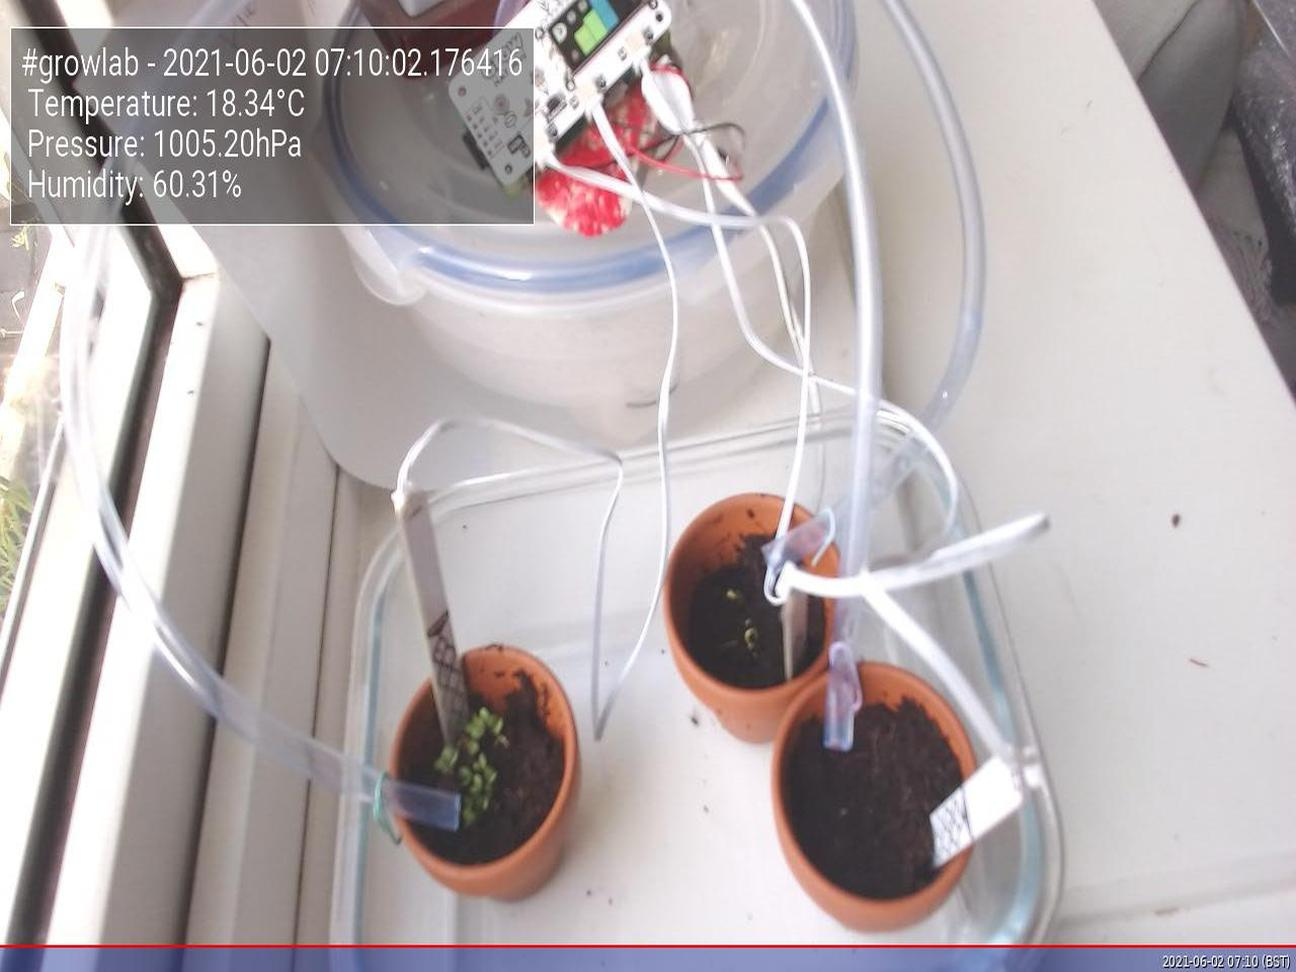
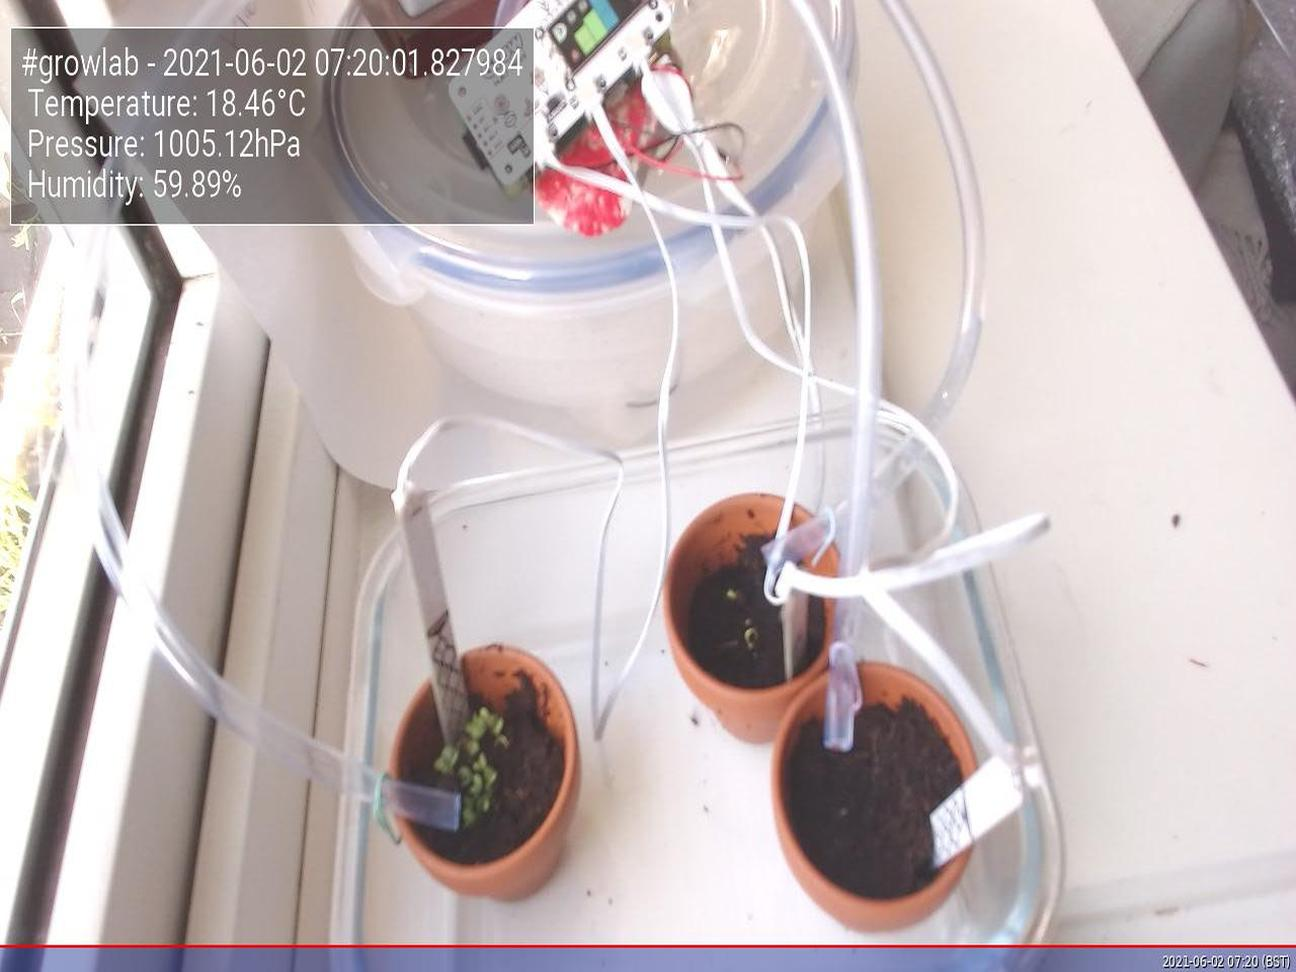
Update images at Wed  2 Jun 07:20:05 BST 2021

diff --git a/app/docs/index.html b/app/docs/index.html
@@ -47,19 +47,19 @@
                         <tbody>
                             <tr>
                                 <td>Time</td>
-                                <td>2021-06-02 07:10:02.176416</td>
+                                <td>2021-06-02 07:20:01.827984</td>
                             </tr>
                             <tr>
                                 <td>Temperature</td>
-                                <td>18.34°C</td>
+                                <td>18.46°C</td>
                             </tr>
                             <tr>
                                 <td>Humidity</td>
-                                <td>60.31%</td>
+                                <td>59.89%</td>
                             </tr>
                             <tr>
                                 <td>Pressure</td>
-                                <td>1005.20hPa</td>
+                                <td>1005.12hPa</td>
                             </tr>
                         </tbody>
                     </table>
@@ -67,7 +67,7 @@
 
                 <h5>Latest image</h5>
                 <div style="width: 85%;">
-                            <img class="figure-img img-fluid rounded" src="./preview.jpg?uid=1622614205.9010563">
+                            <img class="figure-img img-fluid rounded" src="./preview.jpg?uid=1622614805.588425">
                 </div>
             </div>
         </div>
